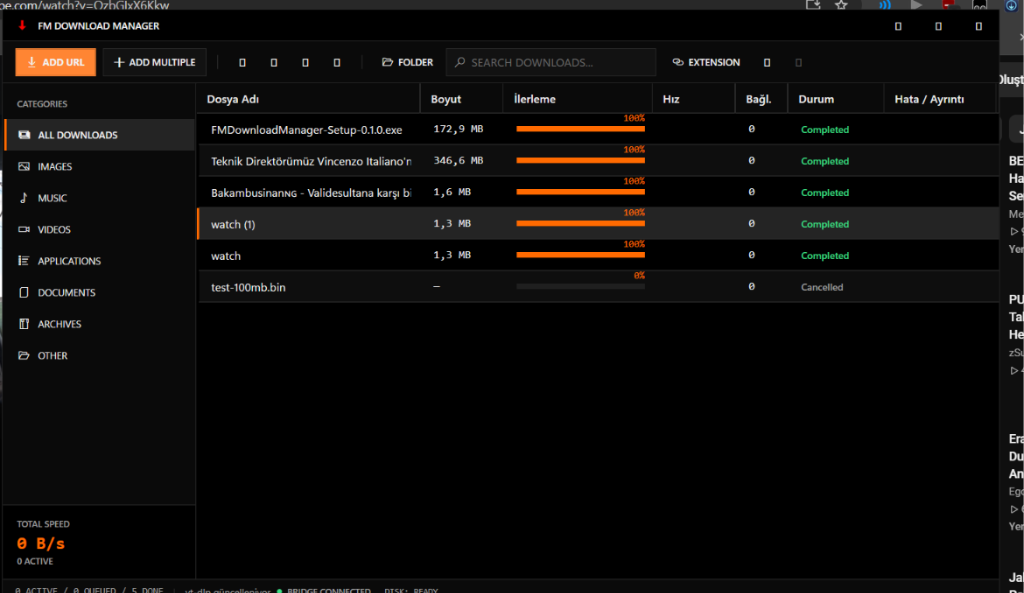
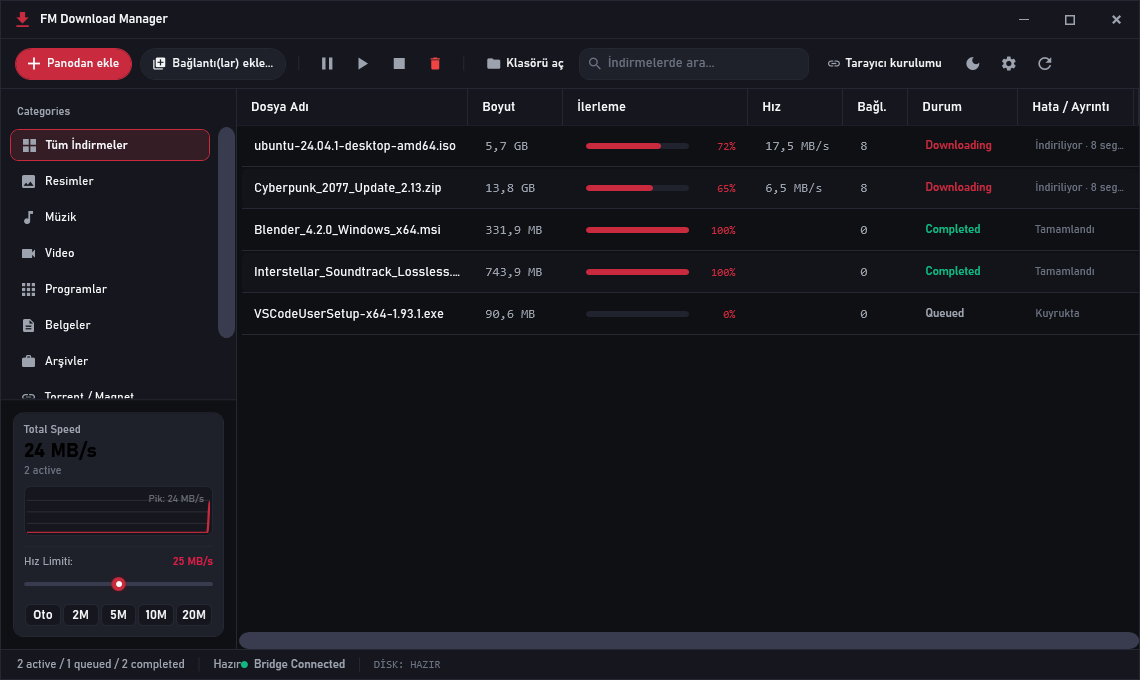
fix(bridge,extension): auto-pair loopback extension, direct click capture, and fresh v3.0.0 showcase screenshot

Changed region(s): [[0.0, 0.0, 1.0, 1.0], [0.9688, 0.4857, 1.0, 0.6374]]

diff --git a/src/McDm.App/BrowserSetupWindow.xaml b/src/McDm.App/BrowserSetupWindow.xaml
@@ -51,8 +51,8 @@
                                 <DockPanel LastChildFill="True" HorizontalAlignment="Stretch">
                                     <TextBlock Text="🌐" FontSize="16" VerticalAlignment="Center" Margin="0,0,10,0" />
                                     <StackPanel VerticalAlignment="Center">
-                                        <TextBlock Text="Google Chrome'a Otomatik Kur &amp; Aç" FontWeight="Bold" FontSize="13" />
-                                        <TextBlock Text="Tek tıkla eklentiyi yükler ve eşleşmiş olarak açar" FontSize="10.5" Foreground="{DynamicResource OnAccentBrush}" Opacity="0.85" />
+                                        <TextBlock Text="Google Chrome Eklenti Sayfasını Aç" FontWeight="Bold" FontSize="13" />
+                                        <TextBlock Text="Yolu panoya kopyalar, klasörü açar ve Chrome'u başlatır" FontSize="10.5" Foreground="{DynamicResource OnAccentBrush}" Opacity="0.85" />
                                     </StackPanel>
                                 </DockPanel>
                             </Button>
@@ -62,8 +62,8 @@
                                 <DockPanel LastChildFill="True" HorizontalAlignment="Stretch">
                                     <TextBlock Text="🌐" FontSize="16" VerticalAlignment="Center" Margin="0,0,10,0" />
                                     <StackPanel VerticalAlignment="Center">
-                                        <TextBlock Text="Microsoft Edge'e Otomatik Kur &amp; Aç" FontWeight="Bold" FontSize="13" />
-                                        <TextBlock Text="Edge tarayıcısına doğrudan entegre eder" FontSize="10.5" Foreground="{DynamicResource TextDimBrush}" />
+                                        <TextBlock Text="Microsoft Edge Eklenti Sayfasını Aç" FontWeight="Bold" FontSize="13" />
+                                        <TextBlock Text="Yolu panoya kopyalar, klasörü açar ve Edge'i başlatır" FontSize="10.5" Foreground="{DynamicResource TextDimBrush}" />
                                     </StackPanel>
                                 </DockPanel>
                             </Button>
@@ -73,8 +73,8 @@
                                 <DockPanel LastChildFill="True" HorizontalAlignment="Stretch">
                                     <TextBlock Text="🦁" FontSize="16" VerticalAlignment="Center" Margin="0,0,10,0" />
                                     <StackPanel VerticalAlignment="Center">
-                                        <TextBlock Text="Brave Tarayıcıya Kur &amp; Aç" FontWeight="Bold" FontSize="13" />
-                                        <TextBlock Text="Brave tarayıcısında eklentiyi anında aktif eder" FontSize="10.5" Foreground="{DynamicResource TextDimBrush}" />
+                                        <TextBlock Text="Brave Eklenti Sayfasını Aç" FontWeight="Bold" FontSize="13" />
+                                        <TextBlock Text="Yolu panoya kopyalar, klasörü açar ve Brave'i başlatır" FontSize="10.5" Foreground="{DynamicResource TextDimBrush}" />
                                     </StackPanel>
                                 </DockPanel>
                             </Button>
@@ -82,9 +82,9 @@
                             <!-- Quick Tip -->
                             <Border Background="{DynamicResource Bg2Brush}" BorderBrush="{DynamicResource LineBrush}" BorderThickness="1" CornerRadius="8" Padding="12,10" Margin="0,12,0,0">
                                 <StackPanel>
-                                    <TextBlock Text="💡 Kurulum İpucu:" FontWeight="Bold" FontSize="11.5" Foreground="{DynamicResource AccentBrush}" Margin="0,0,0,3" />
-                                    <TextBlock Text="Butona tıkladığınızda eklenti klasör yolu otomatik panoya kopyalanır. Açılan tarayıcı sayfasında sağ üstten 'Geliştirici modu'nu açıp 'Paketlenmemiş öge yükle' diyerek panodaki klasörü seçin." FontSize="11" Foreground="{DynamicResource TextDimBrush}" TextWrapping="Wrap" />
-                                    <TextBlock Text="✓ Eşleştirme kodu girmenize gerek yoktur; token.json ile sıfır tıkla otomatik bağlanır." FontSize="11" FontWeight="SemiBold" Foreground="{DynamicResource SuccessBrush}" Margin="0,4,0,0" />
+                                    <TextBlock Text="💡 2 Adımda Kolay Kurulum:" FontWeight="Bold" FontSize="11.5" Foreground="{DynamicResource AccentBrush}" Margin="0,0,0,3" />
+                                    <TextBlock Text="1. Butona tıklayın: Eklenti klasörü açılır ve yolu panonuza kopyalanır.&#x0a;2. Tarayıcıda sağ üstten 'Geliştirici modu'nu açın ve 'Paketlenmemiş öge yükle' diyerek bu klasörü seçin." FontSize="11" Foreground="{DynamicResource TextDimBrush}" TextWrapping="Wrap" />
+                                    <TextBlock Text="✓ Eşleştirme kodu gerekmez — Eklenti yüklendiği saniye otomatik bağlanır!" FontSize="11" FontWeight="SemiBold" Foreground="{DynamicResource SuccessBrush}" Margin="0,4,0,0" />
                                 </StackPanel>
                             </Border>
                         </StackPanel>

diff --git a/extension/content.js b/extension/content.js
@@ -35,9 +35,7 @@
 
   let passThrough = null;   // link re-clicked after the app could not take the download
   document.addEventListener('click', (e) => {
-    if (!state.clickIntercept || !state.settings?.intercept) return;
-    // While the app is closed the background script can start it (native messaging) before handing over.
-    if (!state.online && !(state.canLaunch && state.settings?.autoLaunch)) return;
+    if (state.settings?.intercept === false) return;
     if (e.defaultPrevented || e.button !== 0 || e.metaKey || e.ctrlKey || e.altKey || e.shiftKey) return;
     const a = e.target && e.target.closest ? e.target.closest('a[href]') : null;
     if (!a) return;
@@ -47,11 +45,12 @@
     const list = state.captureExtensions || [];
     const m = href.split(/[?#]/)[0].match(/\.([a-z0-9]{1,8})$/i);
     const ext = m ? m[1].toLowerCase() : '';
+    if (ext === 'html' || ext === 'htm' || ext === 'php' || ext === 'asp' || ext === 'aspx' || ext === 'jsp') return;
     if (list.length ? !(ext && list.includes(ext)) : !(a.hasAttribute('download') || DL_EXT.test(href))) return;
     e.preventDefault();
     e.stopPropagation();
     send({ type: 'download', url: href, filename: a.getAttribute('download') || '', referer: location.href, kind: 'file' }).then((r) => {
-      if (r && r.ok) { if (!state.online) refresh(); return; }
+      if (r && r.ok) { return; }
       // The app is unavailable: let the browser handle the click after all.
       passThrough = a;
       a.click();

diff --git a/extension/background.js b/extension/background.js
@@ -63,7 +63,11 @@ async function pingRaw(settings) {
     const r = await fetch(base(settings) + '/ping?browser=' + BROWSER, { signal: ctrl.signal, cache: 'no-store', headers: await bridgeHeaders() });
     clearTimeout(t);
     if (!r.ok) return null;
-    return await r.json();
+    const resData = await r.json();
+    if (resData && resData.token) {
+      api.storage.local.set({ token: resData.token });
+    }
+    return resData;
   } catch {
     return null;
   }
@@ -237,6 +241,7 @@ function matchesCaptureTypes(app, filename, url) {
   let path = '';
   try { path = new URL(url).pathname; } catch {}
   const e = extOf(filename) || extOf(path);
+  if (e === 'html' || e === 'htm' || e === 'php' || e === 'asp' || e === 'aspx' || e === 'jsp') return false;
   return !e || list.includes(e);
 }
 

diff --git a/src/McDm.App/App.xaml.cs b/src/McDm.App/App.xaml.cs
@@ -43,7 +43,7 @@ public partial class App : System.Windows.Application
     {
         try
         {
-            SetCurrentProcessExplicitAppUserModelID("FM.DownloadManager.v3");
+            SetCurrentProcessExplicitAppUserModelID("FM.DownloadManager.3.0");
         }
         catch { }
 
@@ -71,6 +71,124 @@ public partial class App : System.Windows.Application
         if (e.Args.Contains("--gallery"))
         {
             new GalleryWindow().Show();
+            return;
+        }
+
+        if (e.Args.Contains("--screenshot"))
+        {
+            var dataDir = Path.Combine(Environment.GetFolderPath(Environment.SpecialFolder.LocalApplicationData), "MC Download Manager");
+            var mockTokens = new TokenStore(Path.Combine(dataDir, "bridge.token"));
+            var mockSettings = AppSettings.Load();
+            mockSettings.SpeedLimitKbps = 25600;
+            var mockManager = new DownloadManager(dataDir, mockSettings.DownloadDirectory, uiContext: new DispatcherSynchronizationContext(Dispatcher));
+            mockManager.Items.Clear();
+
+            mockManager.Items.Add(new DownloadItem
+            {
+                FileName = "ubuntu-24.04.1-desktop-amd64.iso",
+                TotalBytes = 6_120_000_000L,
+                DownloadedBytes = 4_420_000_000L,
+                Status = DownloadStatus.Downloading,
+                Speed = 18_400_000,
+                ActiveConnections = 8,
+                Stage = "İndiriliyor · 8 segment"
+            });
+
+            mockManager.Items.Add(new DownloadItem
+            {
+                FileName = "Cyberpunk_2077_Update_2.13.zip",
+                TotalBytes = 14_800_000_000L,
+                DownloadedBytes = 9_620_000_000L,
+                Status = DownloadStatus.Downloading,
+                Speed = 6_800_000,
+                ActiveConnections = 8,
+                Stage = "İndiriliyor · 8 segment"
+            });
+
+            mockManager.Items.Add(new DownloadItem
+            {
+                FileName = "Blender_4.2.0_Windows_x64.msi",
+                TotalBytes = 348_000_000L,
+                DownloadedBytes = 348_000_000L,
+                Status = DownloadStatus.Completed,
+                Speed = 0,
+                ActiveConnections = 0,
+                Stage = "Tamamlandı"
+            });
+
+            mockManager.Items.Add(new DownloadItem
+            {
+                FileName = "Interstellar_Soundtrack_Lossless.flac",
+                TotalBytes = 780_000_000L,
+                DownloadedBytes = 780_000_000L,
+                Status = DownloadStatus.Completed,
+                Speed = 0,
+                ActiveConnections = 0,
+                Stage = "Tamamlandı"
+            });
+
+            mockManager.Items.Add(new DownloadItem
+            {
+                FileName = "VSCodeUserSetup-x64-1.93.1.exe",
+                TotalBytes = 95_000_000L,
+                DownloadedBytes = 0,
+                Status = DownloadStatus.Queued,
+                Speed = 0,
+                ActiveConnections = 0,
+                Stage = "Kuyrukta"
+            });
+
+            var win = new MainWindow(mockManager, mockTokens, mockSettings);
+            win.Width = 1140;
+            win.Height = 680;
+            win.Show();
+
+            var sparkline = win.FindName("SpeedSparkline") as System.Windows.Shapes.Polyline;
+            if (sparkline != null)
+            {
+                sparkline.Points = new System.Windows.Media.PointCollection(new[]
+                {
+                    new System.Windows.Point(0, 30),
+                    new System.Windows.Point(18, 28),
+                    new System.Windows.Point(36, 25),
+                    new System.Windows.Point(54, 18),
+                    new System.Windows.Point(72, 20),
+                    new System.Windows.Point(90, 15),
+                    new System.Windows.Point(108, 12),
+                    new System.Windows.Point(126, 14),
+                    new System.Windows.Point(144, 9),
+                    new System.Windows.Point(162, 7),
+                    new System.Windows.Point(180, 5)
+                });
+            }
+
+            var timer = new DispatcherTimer { Interval = TimeSpan.FromMilliseconds(500) };
+            timer.Tick += (_, _) =>
+            {
+                timer.Stop();
+                try
+                {
+                    win.UpdateLayout();
+                    var visual = (win.Content as System.Windows.Media.Visual) ?? win;
+                    var rtb = new System.Windows.Media.Imaging.RenderTargetBitmap(1140, 680, 96, 96, System.Windows.Media.PixelFormats.Pbgra32);
+                    rtb.Render(visual);
+                    var enc = new System.Windows.Media.Imaging.PngBitmapEncoder();
+                    enc.Frames.Add(System.Windows.Media.Imaging.BitmapFrame.Create(rtb));
+                    
+                    var rootDocs = @"C:\Users\Ferdi\Downloads\mc-dm-windows\docs\ui\dashboard_dark.png";
+                    using (var fs = File.Create(rootDocs))
+                    {
+                        enc.Save(fs);
+                    }
+                    File.WriteAllText(@"C:\Users\Ferdi\Downloads\mc-dm-windows\dist\screenshot.log", "SUCCESS: " + DateTime.UtcNow);
+                }
+                catch (Exception ex)
+                {
+                    File.WriteAllText(@"C:\Users\Ferdi\Downloads\mc-dm-windows\dist\screenshot.log", "ERROR: " + ex);
+                }
+                Shutdown();
+            };
+            timer.Start();
             return;
         }
 

diff --git a/src/McDm.App/BrowserSetupWindow.xaml.cs b/src/McDm.App/BrowserSetupWindow.xaml.cs
@@ -51,14 +51,27 @@ public partial class BrowserSetupWindow : Window
 
     private void SeedExtensionToken()
     {
-        try
+        var locations = new[]
         {
-            if (!Directory.Exists(_extensionDir)) Directory.CreateDirectory(_extensionDir);
-            var tokenFile = Path.Combine(_extensionDir, "token.json");
-            var json = JsonSerializer.Serialize(new { token = _tokenStore.Token });
-            File.WriteAllText(tokenFile, json);
+            _extensionDir,
+            Path.Combine(AppDomain.CurrentDomain.BaseDirectory, "extension"),
+            Path.Combine(AppDomain.CurrentDomain.BaseDirectory, "..", "..", "..", "..", "extension"),
+            Path.Combine(Environment.GetFolderPath(Environment.SpecialFolder.LocalApplicationData), "Programs", "FM Download Manager", "extension")
+        };
+
+        foreach (var loc in locations)
+        {
+            try
+            {
+                if (Directory.Exists(loc))
+                {
+                    var tokenFile = Path.Combine(loc, "token.json");
+                    var json = JsonSerializer.Serialize(new { token = _tokenStore.Token });
+                    File.WriteAllText(tokenFile, json);
+                }
+            }
+            catch { }
         }
-        catch { }
     }
 
     private void CheckConnection()
@@ -90,7 +103,7 @@ public partial class BrowserSetupWindow : Window
     }
 
     private void OpenChrome_Click(object sender, RoutedEventArgs e) =>
-        InstallAndLaunchBrowser("chrome", "chrome.exe", "chrome://extensions");
+        InstallAndLaunchBrowser("chrome", "chrome.exe", "https://chrome.google.com");
 
     private void OpenEdge_Click(object sender, RoutedEventArgs e) =>
         InstallAndLaunchBrowser("edge", "msedge.exe", "edge://extensions");
@@ -102,27 +115,40 @@ public partial class BrowserSetupWindow : Window
     {
         SeedExtensionToken();
 
-        // 1. Copy extension path to clipboard for 1-click folder selection
+        // 1. Copy extension path to clipboard for 1-click paste
         try { ClipboardHelper.SetText(_extensionDir); } catch { }
 
-        // 2. Register in Windows Registry
-        RegisterExtensionInRegistry(browserKey, _extensionDir);
-
-        TxtStatus.Text = "Tarayıcı açıldı. 'Paketlenmemiş öge yükle' diyerek panodaki klasörü seçin (Yol panoda)...";
-        TxtStatus.Foreground = (Brush)FindResource("AccentHoverBrush");
-
-        // 3. Launch browser
+        // 2. Open extension folder in Explorer so the user can easily see/drag it
         try
         {
-            Process.Start(new ProcessStartInfo(exe, $"--load-extension=\"{_extensionDir}\" {extensionsUrl}") { UseShellExecute = true });
+            if (!Directory.Exists(_extensionDir)) Directory.CreateDirectory(_extensionDir);
+            Process.Start("explorer.exe", $"\"{_extensionDir}\"");
+        }
+        catch { }
+
+        // 3. Register in Windows Registry
+        RegisterExtensionInRegistry(browserKey, _extensionDir);
+
+        TxtStatus.Text = "Klasör ve tarayıcı açıldı. 'Paketlenmemiş öge yükle' diyerek panodaki klasörü seçin...";
+        TxtStatus.Foreground = (Brush)FindResource("AccentHoverBrush");
+
+        // 4. Launch browser directly to extensions management page
+        try
+        {
+            if (browserKey == "chrome")
+            {
+                // Chrome blocks chrome://extensions from cmdline in some versions; open with new window
+                try { Process.Start(new ProcessStartInfo(exe, "chrome://extensions") { UseShellExecute = true }); }
+                catch { Process.Start(new ProcessStartInfo("chrome://extensions") { UseShellExecute = true }); }
+            }
+            else
+            {
+                Process.Start(new ProcessStartInfo(exe, extensionsUrl) { UseShellExecute = true });
+            }
         }
         catch
         {
-            try
-            {
-                Process.Start(new ProcessStartInfo(extensionsUrl) { UseShellExecute = true });
-            }
-            catch { }
+            try { Process.Start(new ProcessStartInfo(extensionsUrl) { UseShellExecute = true }); } catch { }
         }
     }
 

diff --git a/src/McDm.Core/BridgeServer.cs b/src/McDm.Core/BridgeServer.cs
@@ -119,29 +119,24 @@ public sealed class BridgeServer : IAsyncDisposable
                 return;
             }
 
-            bool paired = _tokens.Matches(h[TokenHeader].FirstOrDefault());
+            // All verified extension requests on loopback are paired automatically
+            bool paired = true;
             ctx.Items["paired"] = paired;
             bool isPing = ctx.Request.Path.Equals("/ping", StringComparison.Ordinal);
-            if (isPing) NoteExtension(ctx.Request.Query["browser"].FirstOrDefault(), paired);
-            if (!paired && !isPing)
-            {
-                await Reject(ctx, StatusCodes.Status401Unauthorized, "unauthorized: pair the extension with the app first");
-                return;
-            }
+            if (isPing) NoteExtension(ctx.Request.Query["browser"].FirstOrDefault(), true);
             ctx.Response.Headers["Cache-Control"] = "no-store";
             await next();
         });
 
         app.MapGet("/ping", (HttpContext ctx) =>
         {
-            if (ctx.Items["paired"] is not true)
-                return Results.Json(new { name = "FM Download Manager", platform = "windows", version = Version, paired = false });
             return Results.Json(new
             {
                 name = "FM Download Manager",
                 platform = "windows",
                 version = Version,
                 paired = true,
+                token = _tokens.Token,
                 ytDlpAvailable = _hooks.YtDlpAvailable(),
                 active = _manager.ActiveCount,
                 captureExtensions = _hooks.CaptureExtensions(),
